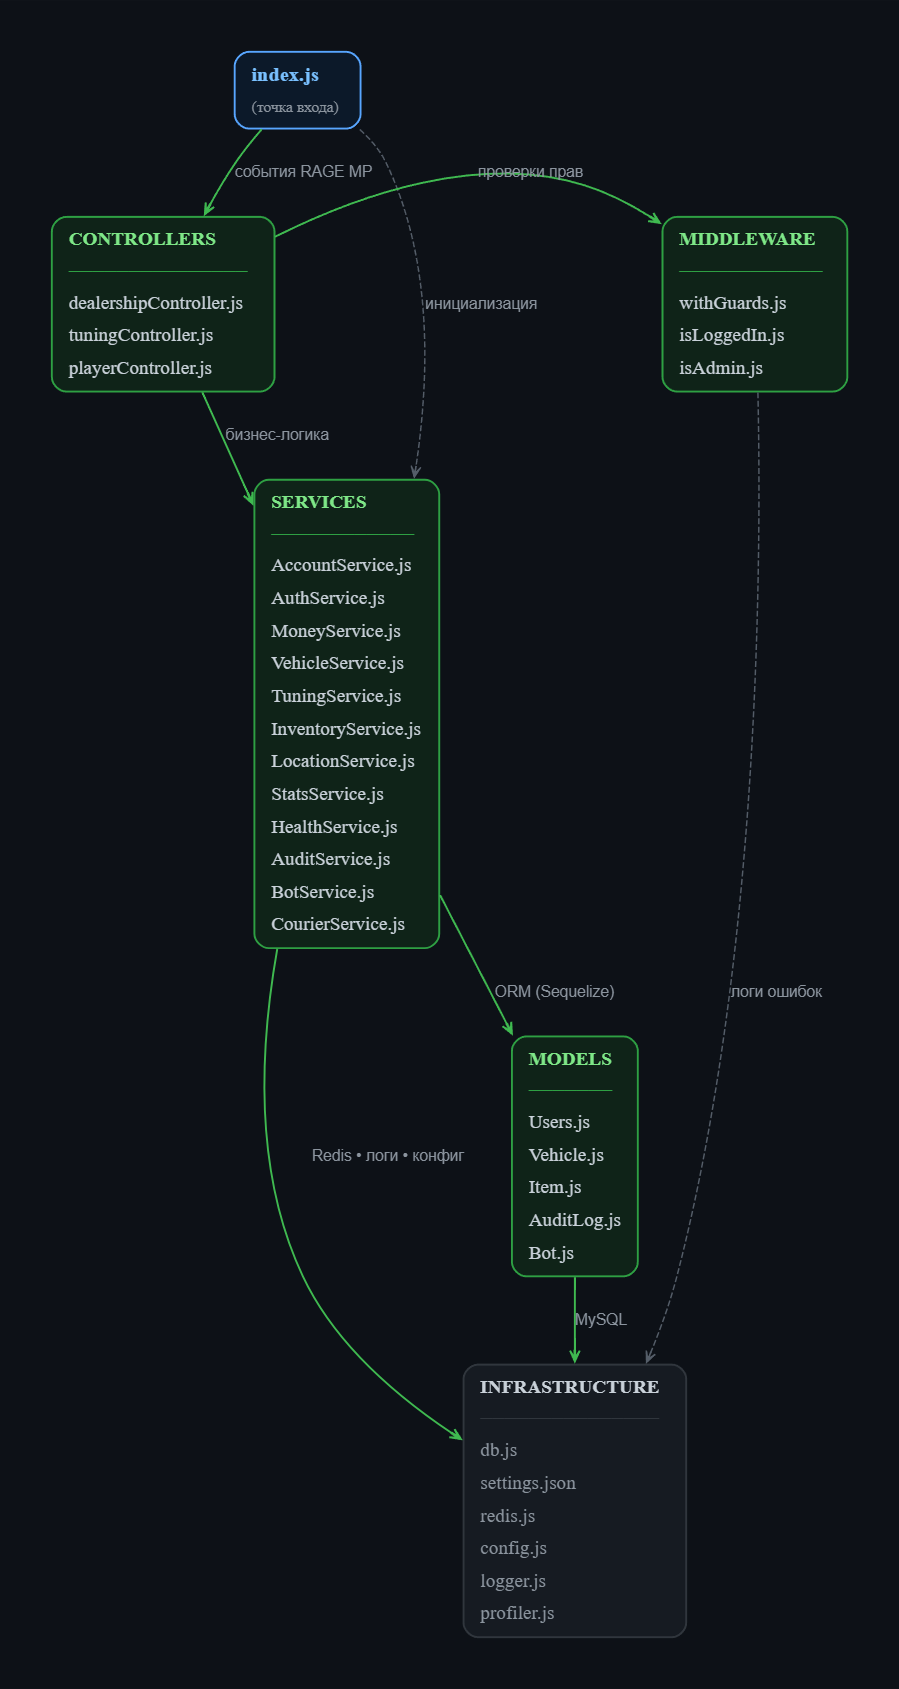
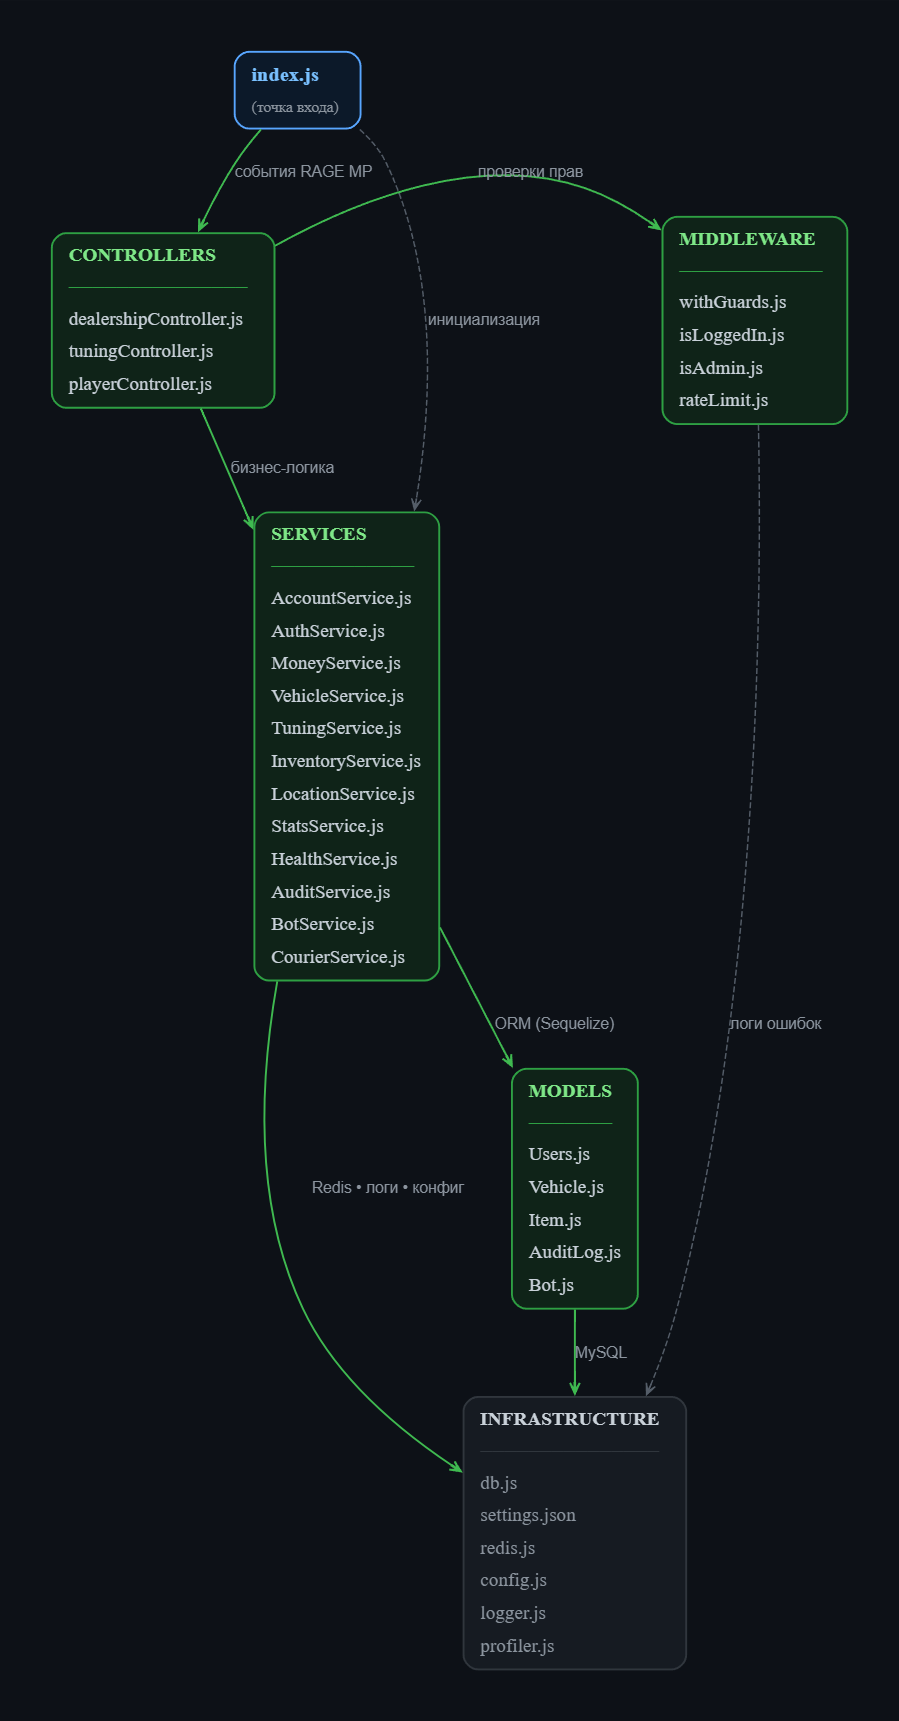
Rate-limiting: анти-флуд и античит, фикс HUD в /pay

diff --git a/packages/main/__tests__/rateLimit.test.js b/packages/main/__tests__/rateLimit.test.js
@@ -1,0 +1,96 @@
+const rateLimit = require('../middleware/rateLimit');
+
+jest.mock('../redis', () => ({
+    getRedis: jest.fn()
+}));
+
+jest.mock('../services/AuditService', () => ({
+    logPlayer: jest.fn(),
+    bumpRepeats: jest.fn()
+}));
+
+jest.mock('../logger', () => ({
+    warn: jest.fn(),
+    error: jest.fn()
+}));
+
+const { getRedis } = require('../redis');
+const auditService = require('../services/AuditService');
+
+describe('rateLimit middleware', () => {
+    let mockRedis;
+    let mockPlayer;
+
+    beforeEach(() => {
+        jest.clearAllMocks();
+        mockRedis = {
+            incr: jest.fn(),
+            expire: jest.fn(),
+            get: jest.fn(),
+            set: jest.fn()
+        };
+        getRedis.mockReturnValue(mockRedis);
+        mockPlayer = { accountId: 1, accountName: 'Test', outputChatBox: jest.fn() };
+    });
+
+    test('пропускает первый вызов', async () => {
+        mockRedis.incr.mockResolvedValue(1);
+        mockRedis.expire.mockResolvedValue(1);
+
+        const guard = rateLimit('test_action', 5, 60);
+        const result = await guard(mockPlayer);
+
+        expect(result).toBe(true);
+        expect(mockRedis.expire).toHaveBeenCalledWith(expect.stringContaining('ratelimit:'), 60);
+    });
+
+    test('пропускает вызовы в пределах лимита', async () => {
+        mockRedis.incr.mockResolvedValue(3);
+
+        const guard = rateLimit('test_action', 5, 60);
+        const result = await guard(mockPlayer);
+
+        expect(result).toBe(true);
+        expect(mockRedis.expire).not.toHaveBeenCalled();
+    });
+
+    test('блокирует при превышении лимита', async () => {
+        mockRedis.incr
+            .mockResolvedValueOnce(6) // основной ключ — превышение
+            .mockResolvedValueOnce(1); // violKey — первое нарушение в окне
+        mockRedis.expire.mockResolvedValue(1);
+        mockRedis.set.mockResolvedValue('OK');
+        auditService.logPlayer.mockResolvedValue({ id: 42 });
+
+        const guard = rateLimit('test_action', 5, 60);
+        const result = await guard(mockPlayer);
+
+        expect(result).toBe(false);
+        expect(mockPlayer.outputChatBox).toHaveBeenCalledWith(expect.stringContaining('Слишком часто'));
+        expect(auditService.logPlayer).toHaveBeenCalled();
+        expect(mockRedis.set).toHaveBeenCalled();
+    });
+
+    test('серия нарушений: repeats растёт у той же строки', async () => {
+        mockRedis.incr
+            .mockResolvedValueOnce(6) // основной ключ — превышение
+            .mockResolvedValueOnce(2); // violKey — серия продолжается
+        mockRedis.get.mockResolvedValue('42');
+
+        const guard = rateLimit('test_action', 5, 60);
+        const result = await guard(mockPlayer);
+
+        expect(result).toBe(false);
+        expect(auditService.bumpRepeats).toHaveBeenCalledWith(42);
+        expect(auditService.logPlayer).not.toHaveBeenCalled(); // не создаём новую строку
+    });
+
+    test('fail open при ошибке Redis', async () => {
+        mockRedis.incr.mockRejectedValue(new Error('Redis down'));
+
+        const guard = rateLimit('test_action', 5, 60);
+        const result = await guard(mockPlayer);
+
+        expect(result).toBe(true);
+    });
+});

diff --git a/packages/main/middleware/rateLimit.js b/packages/main/middleware/rateLimit.js
@@ -1,0 +1,62 @@
+const { getRedis } = require('../redis');
+const auditService = require('../services/AuditService');
+const logger = require('../logger');
+
+/**
+ * Фабрика middleware для rate-limiting
+ *
+ * @param {string} action - Имя действия (ключ в Redis)
+ * @param {number} maxCalls - Максимум вызовов в окне
+ * @param {number} windowSec - Размер окна в секундах (по умолчанию 5)
+ * @returns {Function} Guard для withGuards
+ */
+function rateLimit(action, maxCalls, windowSec = 5) {
+    return async function rateLimitGuard(player) {
+        if (!player) return false;
+        const id = player.accountId || player.ip;
+        if (!id) return false;
+        const redis = getRedis();
+        const key = `ratelimit:${action}:${id}`;
+
+        try {
+            const count = await redis.incr(key);
+            if (count === 1) await redis.expire(key, windowSec);
+
+            if (count > maxCalls) {
+                logger.warn(`[RateLimit] ${player.accountName} превысил лимит ${action}: ${count}/${maxCalls} за ${windowSec}с`);
+                
+                if (count > maxCalls) {
+                    logger.warn(`[RateLimit] ${player.accountName} превысил лимит ${action}: ${count}/${maxCalls} за ${windowSec}с`);
+
+                    const violKey = `ratelimit:viol:${action}:${id}`;
+                    const vCount = await redis.incr(violKey);
+                    if (vCount === 1) {
+                        // первое нарушение в окне — создаём строку журнала
+                        await redis.expire(violKey, windowSec);
+                        const row = await auditService.logPlayer(player, 'ratelimit', {
+                            category: 'security',
+                            success: false,
+                            repeats: 1,
+                            details: { action, limit: maxCalls, window: windowSec }
+                        });
+                        if (row && row.id) await redis.set(`${violKey}:row`, String(row.id), { EX: windowSec });
+                    } else {
+                        // серия продолжается — увеличиваем repeats у той же строки
+                        const rowId = await redis.get(`${violKey}:row`);
+                        if (rowId) await auditService.bumpRepeats(Number(rowId));
+                    }
+                    player.outputChatBox(`!{#FF3333}[Антиспам] Слишком часто. Подождите ${windowSec} секунд.`);
+                    return false;
+                }
+                player.outputChatBox(`!{#FF3333}[Антиспам] Слишком часто. Подождите ${windowSec} секунд.`);
+                return false;
+            }
+            return true;
+        } catch (err) { // при падении Redis — пропускаем
+            logger.error(`[RateLimit] Ошибка Redis: ${err.message}`);
+            return true;
+        }
+    };
+}
+
+module.exports = rateLimit;

diff --git a/packages/main/controllers/dealershipController.js b/packages/main/controllers/dealershipController.js
@@ -5,10 +5,11 @@ const auditService = require('../services/AuditService');
 const moneyService = require('../services/MoneyService');
 const isLoggedIn = require('../middleware/isLoggedIn');
 const withGuards = require('../middleware/withGuards');
+const rateLimit = require('../middleware/rateLimit');
 const { VehicleConfig, PhoneConfig, GaragePos, FuelStationPos, FuelPricePerLiter, FuelInteractionRadius } = require('../config');
 const { getSequelize } = require('../db');
 
-mp.events.add('server:dealership:buy', withGuards([isLoggedIn], async (player, model) => {
+mp.events.add('server:dealership:buy', withGuards([isLoggedIn, rateLimit('buy_car', 1, 5)], async (player, model) => {
     if (!VehicleConfig[model]) return;
     const config = VehicleConfig[model];
 
@@ -40,7 +41,7 @@ mp.events.add('server:phone:requestCars', withGuards([isLoggedIn], async (player
     ]);
 }, 'phone:requestCars'));
 
-mp.events.add('server:phone:spawnVehicle', withGuards([isLoggedIn], async (player, vehicleDbId, fromPhone) => { // доставка авто
+mp.events.add('server:phone:spawnVehicle', withGuards([isLoggedIn, rateLimit('spawn_vehicle', 1, 3)], async (player, vehicleDbId, fromPhone) => { // доставка авто
     if (!vehicleDbId) return;
 
     const hasPhone = inventoryService.hasItem(player, 'phone');
@@ -115,7 +116,7 @@ mp.events.add('server:fuel:requestPos', withGuards([isLoggedIn], (player) => {
     player.call('client:fuel:setPos', [locationService.getPosition('fuel')]);
 }, 'fuel:requestPos'));
 
-mp.events.add('server:fuel:refuel', withGuards([isLoggedIn], async (player, vehicleDbId) => {
+mp.events.add('server:fuel:refuel', withGuards([isLoggedIn, rateLimit('refuel', 1, 5)], async (player, vehicleDbId) => {
     if (!vehicleDbId) return;
 
     const veh = vehicleService.spawnedVehicles.get(vehicleDbId);

diff --git a/packages/main/controllers/tuningController.js b/packages/main/controllers/tuningController.js
@@ -2,13 +2,14 @@ const tuningService = require('../services/TuningService');
 const locationService = require('../services/LocationService');
 const isLoggedIn = require('../middleware/isLoggedIn');
 const withGuards = require('../middleware/withGuards');
+const rateLimit = require('../middleware/rateLimit');
 const { CustomBoxPos, TuningConfig } = require('../config');
 
 mp.events.add('server:customCar:requestPos', withGuards([isLoggedIn], (player) => {
     player.call('client:customCar:setPos', [locationService.getPosition('lsc')])
 }, 'customCar:requestPos'));
 
-mp.events.add('server:custom:buyUpgrade', withGuards([isLoggedIn], async (player, categoryKey, optionJson, price) => { // покупка тюнинга
+mp.events.add('server:custom:buyUpgrade', withGuards([isLoggedIn, rateLimit('buy_upgrade', 1, 5)], async (player, categoryKey, optionJson, price) => { // покупка тюнинга
     let option;
     try { option = JSON.parse(optionJson) }
     catch { return }
@@ -44,7 +45,7 @@ mp.events.add('server:custom:exitShop', withGuards([isLoggedIn], (player) => { /
     tuningService.exitTuning(player);
 }, 'custom:exitShop'));
 
-mp.events.add('server:customCar:enterTuning', withGuards([isLoggedIn], async (player) => { // вход в LSC
+mp.events.add('server:customCar:enterTuning', withGuards([isLoggedIn, rateLimit('enter_tuning', 1, 5)], async (player) => { // вход в LSC
     if (!player.vehicle) return;
 
     const result = await tuningService.enterTuning(player);

diff --git a/packages/main/services/AuditService.js b/packages/main/services/AuditService.js
@@ -10,12 +10,15 @@ class AuditService {
         try {
             await ensureAuditReady();
             const { details, ...rest } = entry;
-            await getAuditModel().create({
+            return await getAuditModel().create({
                 ...rest,
                 details: details === undefined ? null
                     : (typeof details === 'string' ? details : JSON.stringify(details))
             });
-        } catch (err) { logger.error(`[AuditService] Не удалось написать в журнал: ${err.message}`) }
+        } catch (err) {
+            logger.error(`[AuditService] Не удалось написать в журнал: ${err.message}`);
+            return null;
+        }
     }
 
     logPlayer(player, action, options = {}) {
@@ -67,6 +70,17 @@ class AuditService {
             limit,
             raw: true
         });
+    }
+
+    /**
+     * Увеличить счётчик repeats у существующей строки журнала
+     * @param {number} rowId - ID строки audit_logs
+     */
+    async bumpRepeats(rowId) {
+        try {
+            await ensureAuditReady();
+            await getAuditModel().increment('repeats', { where: { id: rowId } });
+        } catch (err) { logger.error(`[AuditService] bumpRepeats ошибка: ${err.message}`) }
     }
 }
 

diff --git a/packages/main/services/CourierService.js b/packages/main/services/CourierService.js
@@ -58,6 +58,18 @@ class CourierService {
     }
 
     dropOff(player, st) {
+        const dist = this.distTo(st.pointIdx);
+        const minTimeMs = (dist / CourierConfig.minDeliverySpeed) * 1000;
+        const elapsed = Date.now() - (st.deliveryStart || 0);
+
+        if (elapsed < minTimeMs) {
+            auditService.logPlayer(player, 'courier_cheat', {
+                category: 'security', success: false, withPosition: true,
+                details: { dist: Math.round(dist), elapsed: Math.round(elapsed / 1000), min: Math.round(minTimeMs / 1000) }
+            });
+            return player.outputChatBox('!{#FF3333}[Курьер] Слишком быстро! Пройди маршрут честно.');
+        }
+
         st.stage = 'return';
         this.sendTarget(player, st);
         player.outputChatBox('!{#00FFFF}[Курьер] Посылка доставлена. Возвращайся на склад.');
@@ -65,6 +77,7 @@ class CourierService {
 
     takePackage(player, st) {
         st.stage = 'delivery';
+        st.deliveryStart = Date.now();
         this.sendTarget(player, st);
         player.outputChatBox(`!{#00FFFF}[Курьер] Посылка взята. Точка доставки: ~${Math.round(this.distTo(st.pointIdx))} м, награда $${st.pay}.`);
     }

diff --git a/packages/main/controllers/playerController.js b/packages/main/controllers/playerController.js
@@ -12,6 +12,7 @@ const { getRedis } = require('../redis');
 const isLoggedIn = require('../middleware/isLoggedIn');
 const isAdmin = require('../middleware/isAdmin');
 const withGuards = require('../middleware/withGuards');
+const rateLimit = require('../middleware/rateLimit');
 const { CourierConfig } = require('../config');
 const logger = require('../logger');
 const profile = require('../profiler');
@@ -368,8 +369,11 @@ registerCommand('pay', {
         const ok = await moneyService.transfer(player.accountId, targetAccountId, amount, 'pay');
         if (!ok) return player.outputChatBox('!{#FF3333}Недостаточно средств');
 
-        player.outputChatBox(`!{#00FF00}Вы перевели $${amount} → ${targetName}`);
+        player.applyMoneyDelta(-amount);
+        if (targetPlayer) targetPlayer.applyMoneyDelta(amount);
+        player.outputChatBox(`!{#00FF00}Вы перевели $${amount} игроку ${targetName}`);
         if (targetPlayer) targetPlayer.outputChatBox(`!{#00FF00}Вам перевод $${amount} от ${player.accountName}`);
+        
         auditService.logPlayer(player, 'pay', { category: 'money', amount, target: targetAccountId, details: { target_name: targetName } });
     }
 });

diff --git a/packages/main/middleware/withGuards.js b/packages/main/middleware/withGuards.js
@@ -11,7 +11,7 @@ const logger = require('../logger');
 function withGuards(guards, handler, label = '') {
     return async (player, ...args) => {
         for (const guard of guards) {
-            if (!guard(player)) return;
+            if (!(await guard(player))) return;
         }
         try { await handler(player, ...args) }
         catch (err) { logger.error(`[Handler${label ? ' ' + label : ''}] ${err.message}\nStack: ${err.stack}`) }

diff --git a/packages/main/config.js b/packages/main/config.js
@@ -56,6 +56,7 @@ module.exports = {
         payBase: 50, // базовая ставка заказа
         payPerMeter: 1.5,
         interactRadius: 3,
+        minDeliverySpeed: 30,
         startPos: { x: -404.8, y: -123, z: 38.5 },
         warehousePos: { x: -393, y: -141.3, z: 37.5 },
         vehicleSpawnPoints: [

diff --git a/README.md b/README.md
@@ -206,6 +206,28 @@ function withGuards(guards, handler, label = '') {
 
 Плюс валидация на границе входа: битый JSON, левые опции тюнинга и отрицательные количества отклоняются до того, как дойдут до БД.
 
+## 🛡 Rate-limiting
+
+Защита от флуда событиями через Redis-счётчики. Каждый `accountId` имеет независимый лимит на каждое действие:
+
+| Действие | Лимит | Окно |
+|---|---|---|
+| Покупка авто | 1 | 5 сек |
+| Спавн авто | 1 | 3 сек |
+| Заправка | 1 | 5 сек |
+| Тюнинг (LSC) | 1 | 5 сек |
+| Курьер (E) | 1 | 10 сек |
+| Вход в LSC (E) | 1 | 5 сек |
+
+**Поведение:**
+- При превышении — обработчик блокируется, игрок получает сообщение
+- Нарушения логируются в `audit_logs` (с коалесценцией — один лог на серию)
+- **Fail open:** при падении Redis лимиты не блокируют игроков
+
+**Использование:**
+```javascript
+withGuards([isLoggedIn, rateLimit('buy_car', 3, 60)], async (player, ...) => { ... })
+```
 ---
 
 ## 💻 Админ-команды (уровень 1+)
